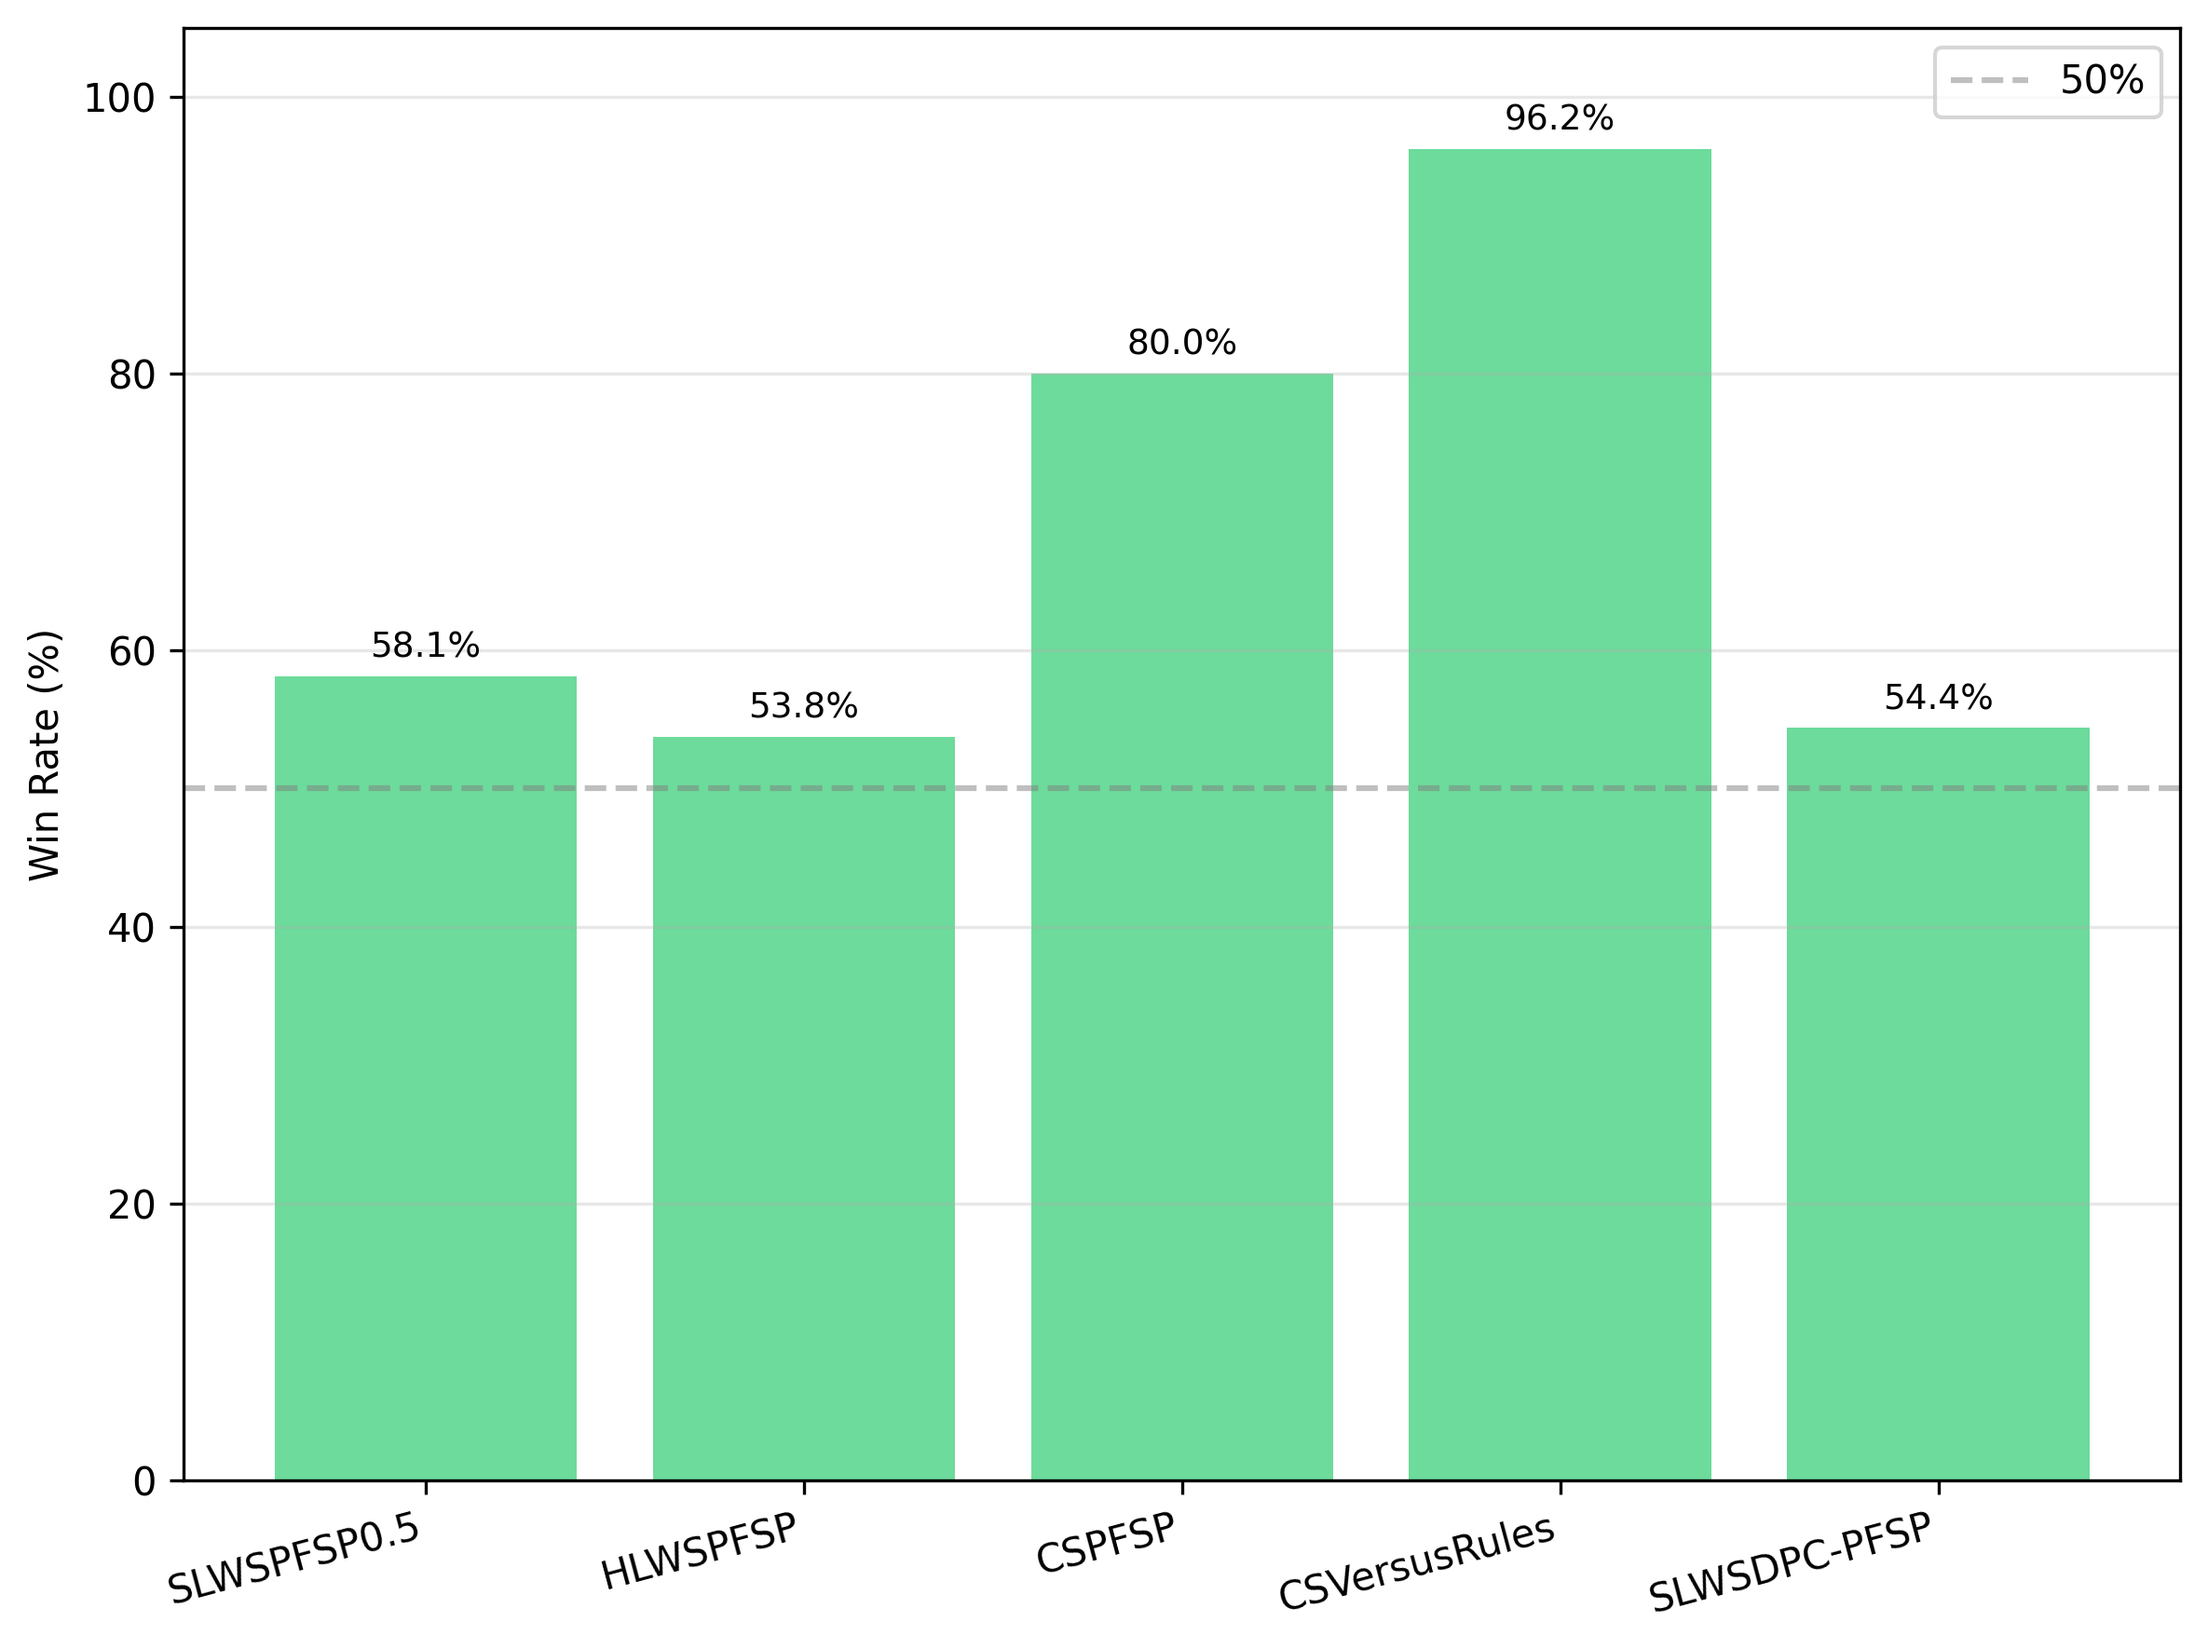
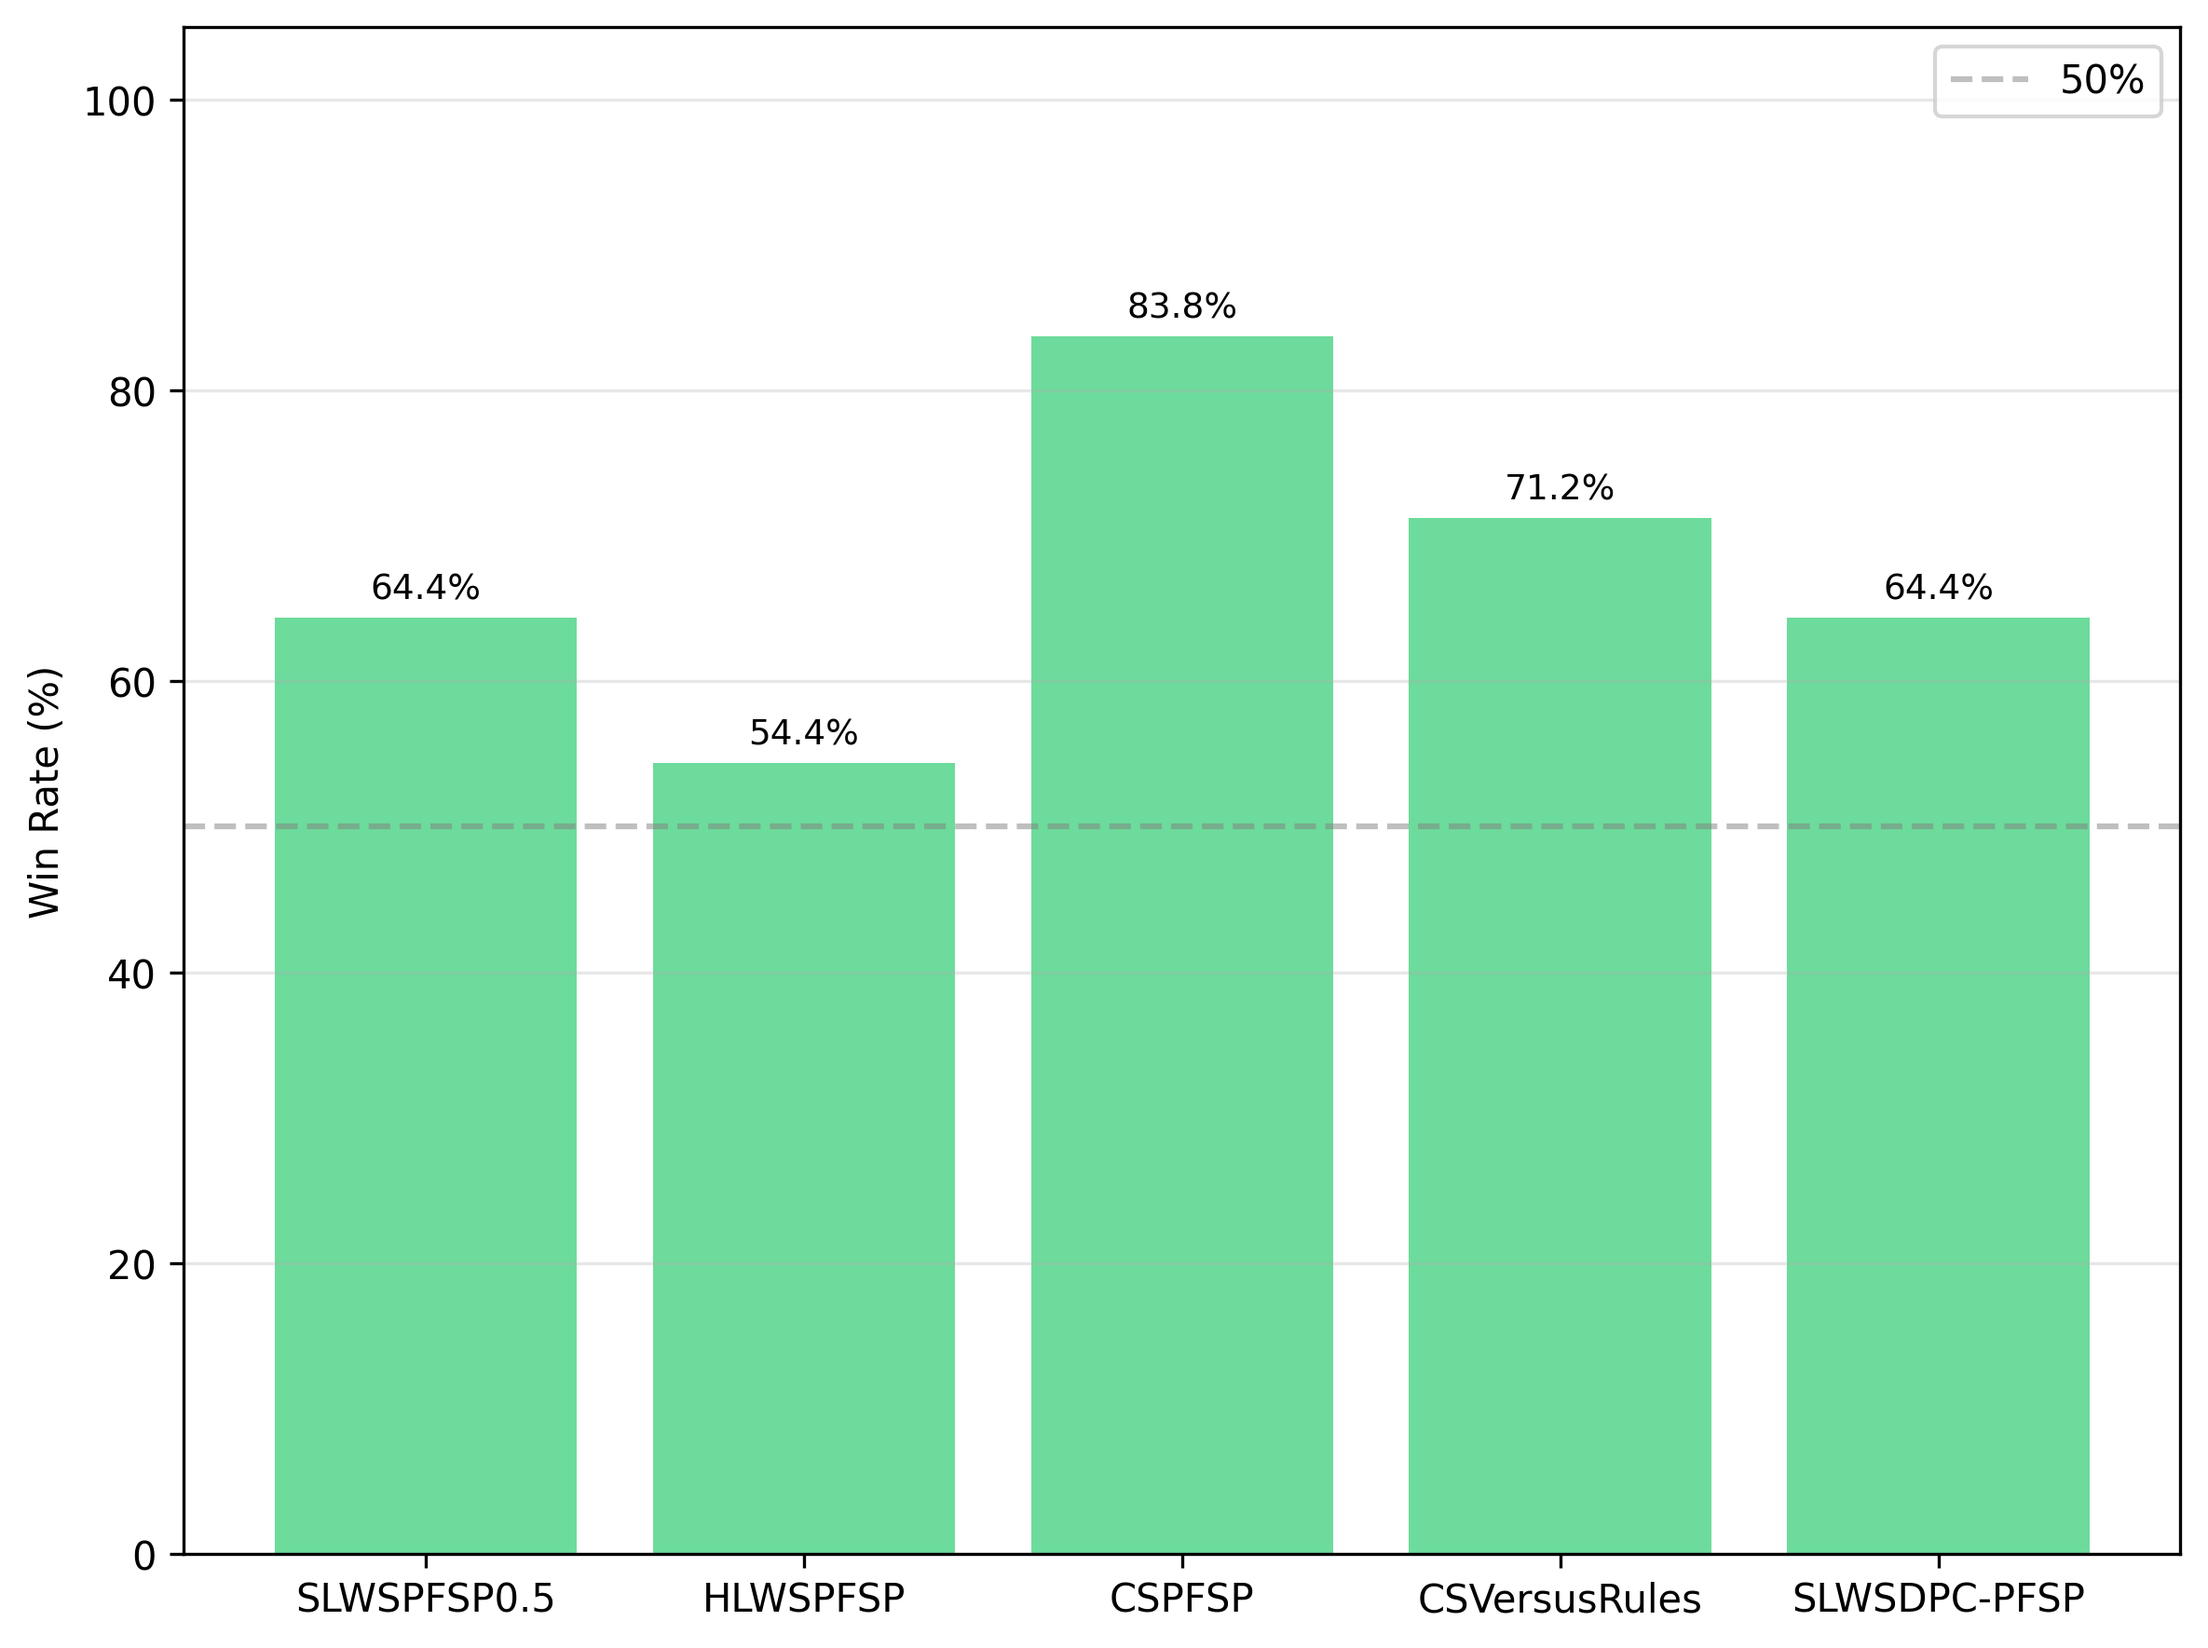
换台电脑去写论文

diff --git a/结果展示/展示决策训练曲线.py b/结果展示/展示决策训练曲线.py
@@ -275,20 +275,22 @@ def plot_training_curves(data_dir, exp_name, name_list=None, name_list_show=None
     if os.path.exists(il_curve_file):
         try:
             df_il = pd.read_csv(il_curve_file)
-            if 'Epoch' in df_il.columns and 'ActorLoss' in df_il.columns:
+            if 'Step' in df_il.columns and 'Value' in df_il.columns:
                 fig4, ax4 = plt.subplots(figsize=(8, 5))
                 
-                raw_loss = df_il['ActorLoss']
+                raw_y = df_il['Value']
                 # 使用滑动平均平滑数据
-                smooth_loss = moving_average(raw_loss, 15)
+                smooth_loss = moving_average(raw_y, 15)
                 
-                # 绘制浅色原始曲线
-                sns.lineplot(x=df_il['Epoch'], y=raw_loss, ax=ax4, color='tab:green', alpha=0.2)
-                # 绘制深色平滑曲线
-                sns.lineplot(x=df_il['Epoch'], y=smooth_loss, ax=ax4, color='darkgreen', linewidth=1.8)
+                # # 绘制浅色原始曲线
+                # sns.lineplot(x=df_il['Step'], y=raw_y, ax=ax4, color='tab:green', alpha=0.2)
+                # # 绘制深色平滑曲线
+                # sns.lineplot(x=df_il['Step'], y=smooth_loss, ax=ax4, color='darkgreen', linewidth=1.8)
+
+                sns.lineplot(x=df_il['Step'], y=raw_y, ax=ax4, color='darkgreen', linewidth=1.8)
                 
                 ax4.set_xlabel("Epoch", fontweight='bold')
-                ax4.set_ylabel("Actor Loss", fontweight='bold')
+                ax4.set_ylabel("分类准确率", fontweight='bold')
                 
                 # 解决网格遮挡曲线的问题
                 ax4.set_axisbelow(True)
@@ -306,15 +308,23 @@ if __name__ == "__main__":
     EXPERIMENT_NAME = "ILHOPFSP"
 
     name_list = [
-        "IL_and_MixedPFSP_分阶段_挑战_并行_分层2s",
-        "IL_and_MixedPFSP_低门槛_挑战_并行_分层2s",
-        "IL_and_MixedPFSP_高门槛_挑战_并行_分层2s",
-        "IL_and_PFSP_挑战_并行_分层2s",
-        "纯Rule4训练_分层_挑战2s",
-        "NoILPFSP_分阶段_混规则对手_挑战_并行_分层2s",
-        "NoILPFSP_分阶段_挑战_并行_分层2s",
-        "IL_and_deltaFSP_挑战_并行_分层2s",
+        "CSVersusRules-run-20260614-163906",
+        "CSPFSP-run-20260615-234324",
+        "HLWSPFSP-run-20260616-130304",
+        "SLWSPFSP0.3-run-20260618-221044",
+        "SLWSPFSP0.5-run-20260620-211720",
+        "SLWSPFSP0.2-run-20260622-185856",
     ]
+    # [
+    #     "IL_and_MixedPFSP_分阶段_挑战_并行_分层2s",
+    #     "IL_and_MixedPFSP_低门槛_挑战_并行_分层2s",
+    #     "IL_and_MixedPFSP_高门槛_挑战_并行_分层2s",
+    #     "IL_and_PFSP_挑战_并行_分层2s",
+    #     "纯Rule4训练_分层_挑战2s",
+    #     "NoILPFSP_分阶段_混规则对手_挑战_并行_分层2s",
+    #     "NoILPFSP_分阶段_挑战_并行_分层2s",
+    #     "IL_and_deltaFSP_挑战_并行_分层2s",
+    # ]
     name_list_show = [
         1,
         2,
